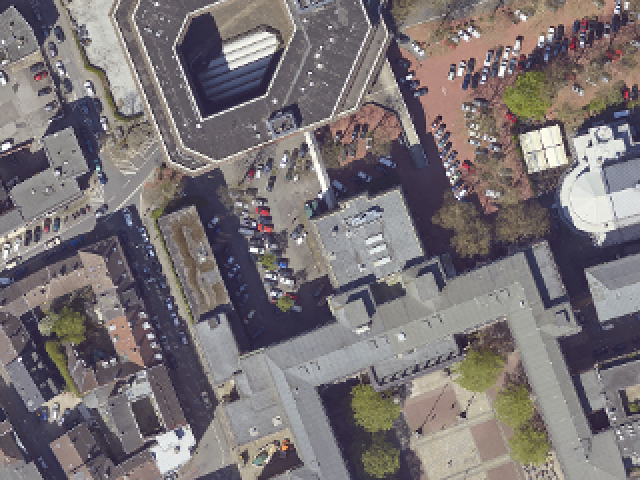
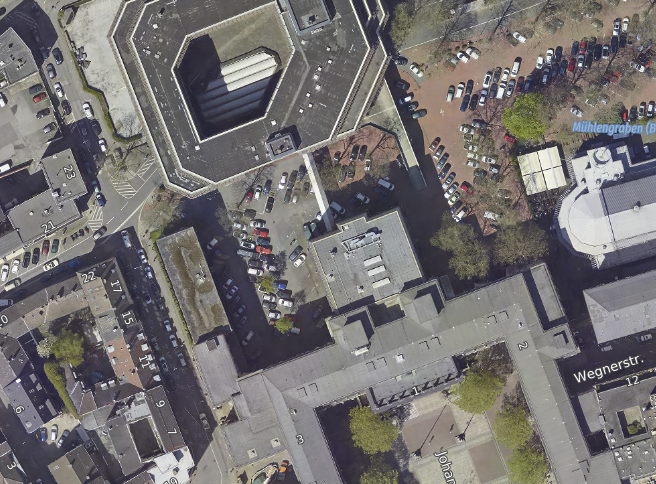
:text: wo #33: small text changes and changed preview image

diff --git a/src/components/starkregen/Help20Karteninhalt.js b/src/components/starkregen/Help20Karteninhalt.js
@@ -23,10 +23,10 @@ const Component = ({ uiState, uiStateActions, showModalMenu }) => {
 					</p>
 					<p>
 						Unter <b>Karte</b> können Sie aus drei verschiedenen Hintergrundkarten auswählen: einer
-						topographischen Karte in Graustufen, einem Luftbild und einem Stadtplan. Die topographische
+						topographischen Karte in Graustufen, einer Luftbildkarte und einem Stadtplan. Die topographische
 						Karte verschafft Ihnen den besten Überblick über die Situation, da sie einen plastischen
 						Geländeindruck vermittelt. Der Stadtplan eignet sich gut für die sichere Identifizierung Ihres
-						Hauses, da hier die Hausnummern aller Gebäude dargestellt werden. Das Luftbild ist die
+						Hauses, da hier die Hausnummern aller Gebäude dargestellt werden. Die Luftbildkarte ist die
 						anschaulichste Kartengrundlage, es eignet sich daher vor allem für Detailbetrachtungen. Näheres
 						zu den Geodaten, die diesen Karten zu Grunde liegen, finden Sie ebenfalls unter{' '}
 						<a onClick={() => showModalMenu('datengrundlage')}>Datengrundlagen</a>.
@@ -36,13 +36,13 @@ const Component = ({ uiState, uiStateActions, showModalMenu }) => {
 						Klassifizierung der maximalen simulierten Wasserstände verwendeten Farben erläutert. Direkt
 						darunter finden Sie die Bezeichnung und (in kleiner Schrift) eine Kurzbeschreibung des aktuell
 						ausgewählten Simulations-Szenarios. Über den Link{' '}
-						<a onClick={() => showModalMenu('szenarien')}>(mehr)</a> am Ende jeder Kurzbeschreibung
-						gelangen Sie zu einer ausführlicheren Darstellung aller vier Szenarien in der Kompaktanleitung.
-						Mit der Schaltfläche <Icon name="chevron-circle-down" /> rechts neben der Simulationsbezeichnung
-						lässt sich das Kontrollfeld so verkleinern, dass nur noch die Legende und die
-						Simulationsbezeichnung angezeigt werden - nützlich für Endgeräte mit kleinem Display. Mit der
-						Schaltfläche <Icon name="chevron-circle-up" /> können Sie das Kontrollfeld dann wieder
-						vollständig einblenden.
+						<a onClick={() => showModalMenu('szenarien')}>(mehr)</a> am Ende jeder Kurzbeschreibung gelangen
+						Sie zu einer ausführlicheren Darstellung aller vier Szenarien in der Kompaktanleitung. Mit der
+						Schaltfläche <Icon name="chevron-circle-down" /> rechts neben der Simulationsbezeichnung lässt
+						sich das Kontrollfeld so verkleinern, dass nur noch die Legende und die Simulationsbezeichnung
+						angezeigt werden - nützlich für Endgeräte mit kleinem Display. Mit der Schaltfläche{' '}
+						<Icon name="chevron-circle-up" /> können Sie das Kontrollfeld dann wieder vollständig
+						einblenden.
 					</p>
 				</div>
 			}

diff --git a/src/components/starkregen/Help10Datengrundlage.js b/src/components/starkregen/Help10Datengrundlage.js
@@ -69,7 +69,7 @@ const Component = ({ uiState, uiStateActions, showModalMenu }) => {
 						</li>
 
 						<li>
-							<strong>Luftbild</strong>: Kartendienst (WMS) der Stadt Wuppertal. Datengrundlage:{' '}
+							<strong>Luftbildkarte</strong>: Kartendienst (WMS) der Stadt Wuppertal. Datengrundlage:{' '}
 							<strong>True Orthophoto aus Bildflug vom 19.04.2018</strong>, hergestellt durch Aero West
 							GmbH/Dortmund, Bodenauflösung 10 cm. (True Orthophoto: Aus Luftbildern mit hoher Längs- und
 							Querüberdeckung in einem automatisierten Bildverarbeitungsprozess berechnetes Bild in

diff --git a/src/redux/modules/starkregen.js b/src/redux/modules/starkregen.js
@@ -65,7 +65,7 @@ export const initialState = {
 	],
 	backgrounds: [
 		{ layerkey: 'hillshade|bplan_abkg@30 ', src: '/images/rain-hazard-map-bg/topo.png', title: 'Top. Karte' },
-		{ layerkey: 'trueOrtho2018@50|rvrSchrift@100', src: '/images/rain-hazard-map-bg/ortho.png', title: 'Luftbild' },
+		{ layerkey: 'trueOrtho2018@50|rvrSchrift@100', src: '/images/rain-hazard-map-bg/ortho.png', title: 'Luftbildkarte' },
 		{ layerkey: 'wupp-plan-live@40', src: '/images/rain-hazard-map-bg/citymap.png', title: 'Stadtplan' }
 	],
 	legend: [

diff --git a/src/containers/Starkregen.js b/src/containers/Starkregen.js
@@ -357,7 +357,7 @@ export class Starkregen_ extends React.Component {
 					tiled="true"
 					styles="default"
 					maxZoom={19}
-					opacity={1}
+					opacity={0}
 					caching={this.state.caching}
 				/>
 				{featureInfoLayer}
